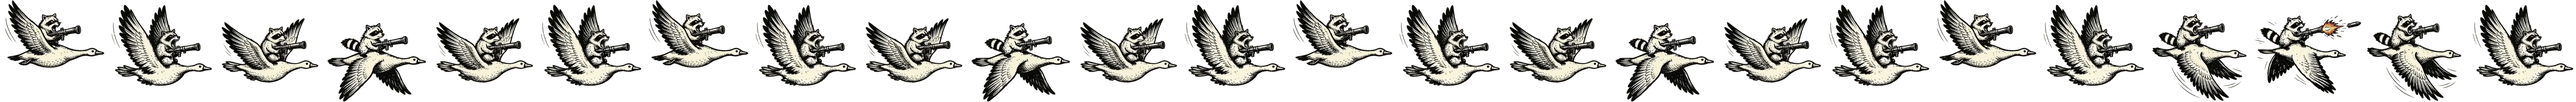
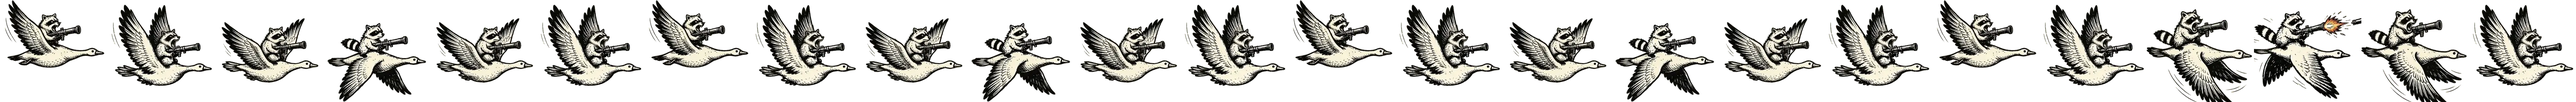
Batida de asa mais calma e ganso do mesmo tamanho no tiro

Changed region(s): [[0.8125, 0.1231, 0.9688, 1.0]]

diff --git a/src/ui/styles.css b/src/ui/styles.css
@@ -1172,7 +1172,7 @@ a.lib-row:hover .lib-main b { text-decoration: underline; }
 .goose-rider i {
   position: absolute; top: 0; left: 0; height: 100%; width: 2400%;
   background-repeat: no-repeat; background-size: 100% 100%;
-  animation: goose-voo 2.16s steps(24) infinite;
+  animation: goose-voo 3.6s steps(24) infinite;
 }
 @keyframes goose-voo { from { transform: translateX(0); } to { transform: translateX(-100%); } }
 @media (prefers-reduced-motion: reduce) { .goose-rider i { animation: none; } }
